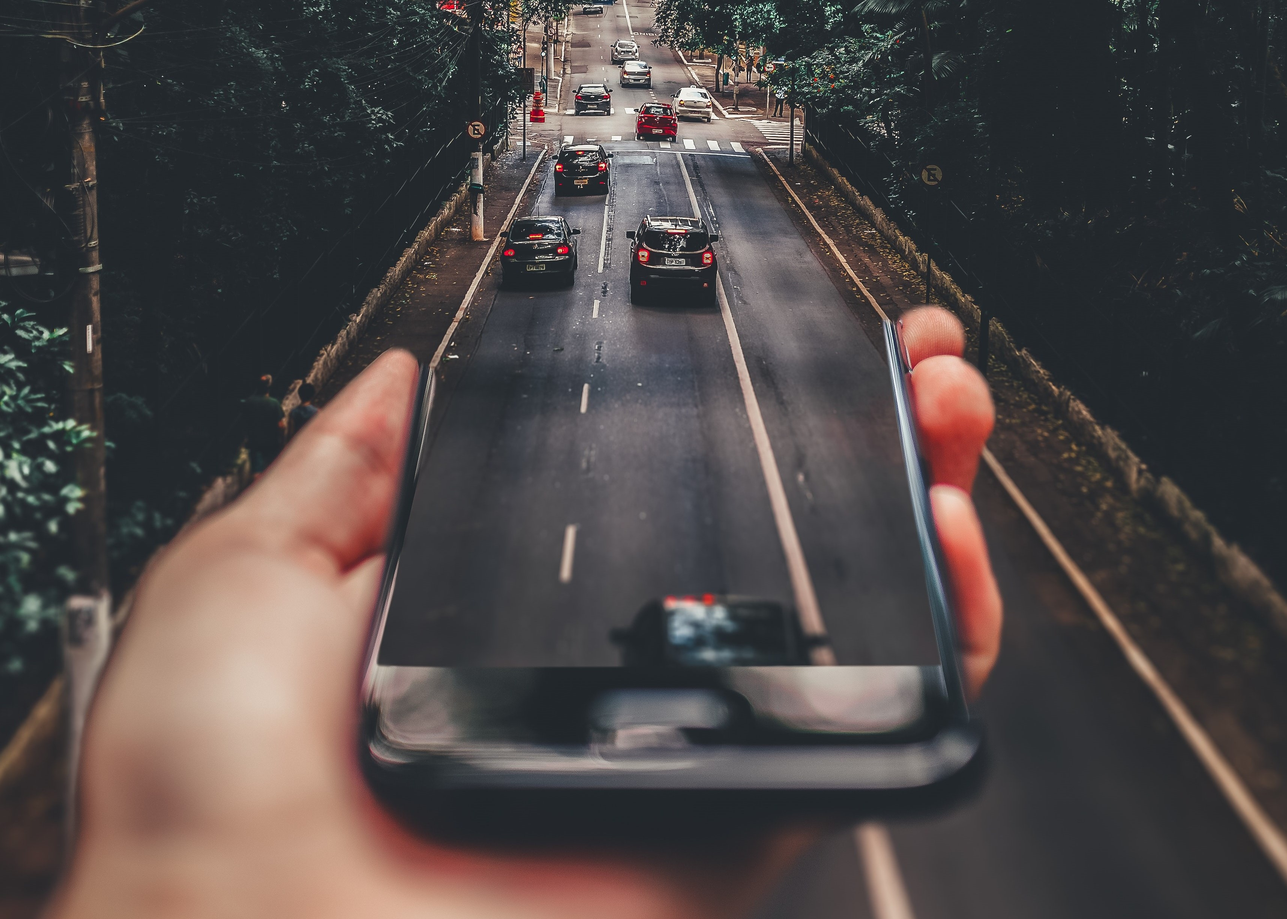
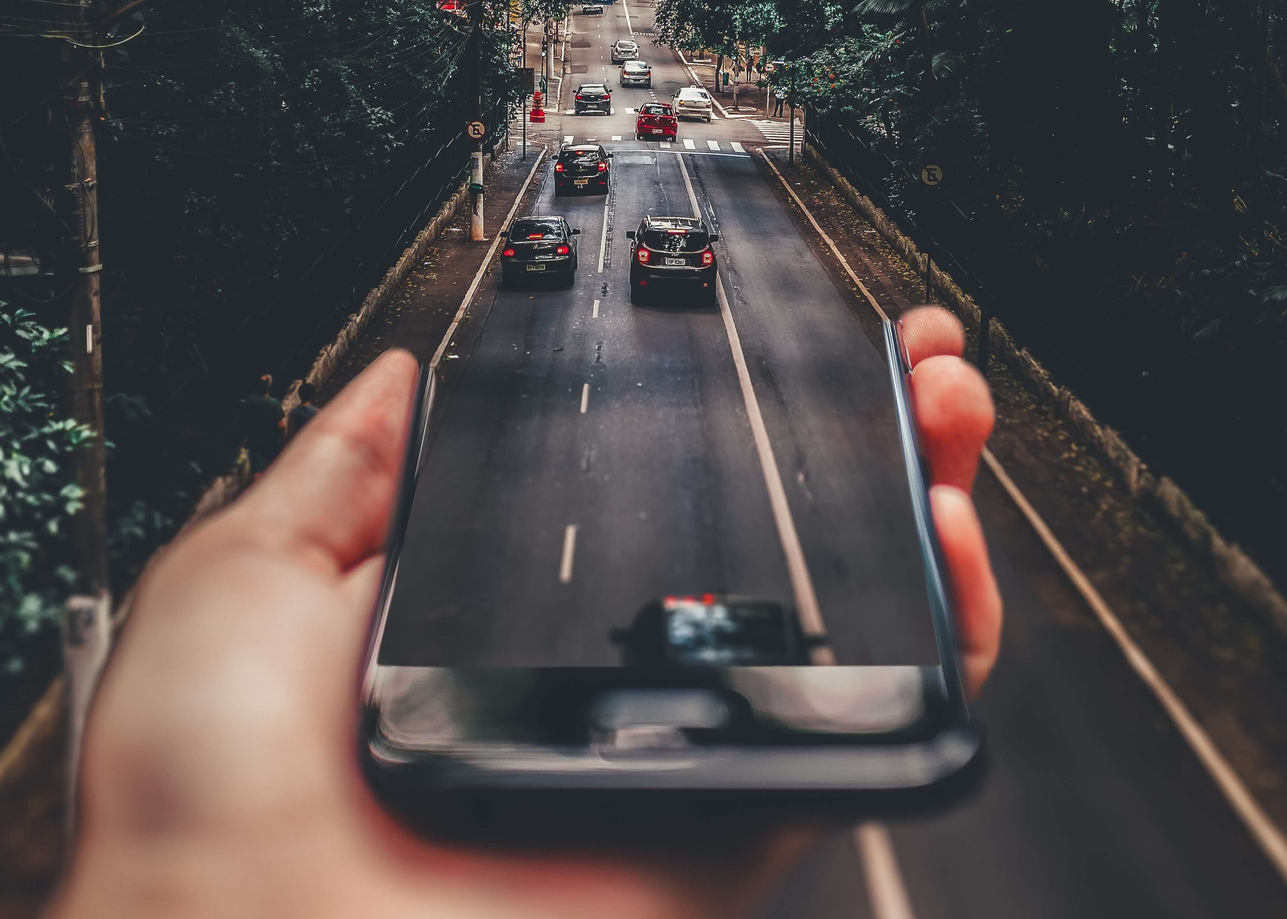
amended testimonial image in index.html, compressed all images for faster loading

diff --git a/assets/css/style.css b/assets/css/style.css
@@ -114,7 +114,7 @@ body {
 
     height: 90vh;
 
-    background: url('../images/hero-image-drivers.jpg') no-repeat center center;
+    background: url('../images/hero-image-drivers\ \(2\).jpg') no-repeat center center;
     -webkit-background-size: cover;
     -moz-background-size: cover;
     -o-background-size: cover;

diff --git a/README.md b/README.md
@@ -1,11 +1,14 @@
 
-Milestone Project 1-Envirocabs Website
+# Milestone Project 1-Envirocabs Website
 
 What is the purpose? 
+
 The company wants the website to be simple and visually attractive to its customers. They also want website viewers to be given the opportunity to quickly book a cab or download their app with ease through the website. This is the overall goal of the company to have new and existing customers to book cabs.  Envirocabs has also stated that they want to further expand their social media presence and therefore this must be highlighted on their website, to allow website visitors to access their Instagram, Facebook, Twitter and Snap chat.  
+
 Our client is Envirocabs a start-up minicab office that is environmentally friendly. All Envirocabs vehicles are 100% electric and produce 0% omissions. The client wants to highlight this on their website as an environmentally friendly alternative to its competitors. Furthermore, the company believes there is a niche in the market to attract those aiming to reduce their carbon footprint but still require cabs to travel. The company wants to attract new customers as its innovative and literally a breath of fresh air from its polluting competitors. Envirocabs wants us to also highlight the environmental initiatives to further bolster their public image. 
 
-UXD 
+## UXD 
+
  Visitor goals     
 1)	I want to be able to navigate through the website quick and easily. 
 2)	I want the process to book a cab to be simple as possible.  
@@ -13,7 +16,7 @@ UXD
 4)	I want to be able to follow the company on various media platforms.  
 5)	I want to learn about the safety procedures the company has in place during the pandemic.  
 
-Envirocabs goals 
+### Envirocabs goals 
 
 1)	We want visitors to the site, to book on our website directly or download our app to book a cab. 
 2)	We want visitors to be aware our fleet of vehicles are 100% electric and there 0% emissions, want to target customers who want to reduce their carbon footprint and those wanting to be greener.  
@@ -21,49 +24,57 @@ Envirocabs goals
 4)	We want visitors to be aware of our social media presence, follow us on various media platform to expand our brand.  
 5)	We want visitors to be aware our community initiatives, this will be good PR for the company.  
 
+####
 
 1)	I want to be able to navigate through the website quick and easily.   
-The website will have a navigation menu at the top of the webpage, that will allow a visitor to select a heading to direct them to a new page. The header will have a logo when pressed that will take the visitor (which is a modern feature of other websites) to the Home Page. The rest of the header will have the following new page links Services, Drivers, Safety, Our Commitments and Contact Us.    
+    
+    The website will have a navigation menu at the top of the webpage, that will allow a visitor to select a heading to direct them to a new page. The header will have a logo when pressed that will take the visitor (which is a modern feature of other websites) to the Home Page. The rest of the header will have the following new page links Services, Drivers, Safety, Our Commitments and Contact Us.    
 
 2)	I want the process to book a cab to be simple as possible.      
 
-The Website Homepage will have a button on the hero image that when selected will take the visitor to the contact us page. The visitor can book directly through the webpage by filling out their details in the form and submitting it. 
+    The Website Homepage will have a button on the hero image that when selected will take the visitor to the contact us page. The visitor can book directly through the webpage by filling out their details in the form and submitting it. 
 
 3)	 I want to learn about the company and its ethos on their website.  
-The Home page will have a section which gives a visitor information about the company with the use of icon and text. Too much information will not be provided as to prevent the users from being overwhelmed with information on the Home page. The home page will feature testimonials from previous customers to reassure any new customer about its service. For further information about the company’s ethos the visitor can click on our commitments heading. The page will highlight the company’s commitment to the environment and its plant a tree initiative. It will state what the company has implemented to make itself environmentally friendly.    
+     
+     The Home page will have a section which gives a visitor information about the company with the use of icon and text. Too much information will not be provided as to prevent the users from being overwhelmed with information on the Home page. The home page will feature testimonials from previous customers to reassure any new customer about its service. For further information about the company’s ethos the visitor can click on our commitments heading. The page will highlight the company’s commitment to the environment and its plant a tree initiative. It will state what the company has implemented to make itself environmentally friendly.    
 
 4)	I want to be able to follow the company on various media platforms.  
-On every page the website footer will have follow us text with icons for Facebook, Snapchat, Twitter and Instagram. The visitor to the webpage must click on the icons to be taken to their websites.         
+    
+    On every page the website footer will have follow us text with icons for Facebook, Snapchat, Twitter and Instagram. The visitor to the webpage must click on the icons to be taken to their websites.         
 
 5)	I want to learn about the safety procedures the company has in place during the pandemic.  
-Considering the on-going pandemic, customers want to be reassured that practices are in places to keep them protected. The Safety page will highlight with icon and information that the vehicles are regularly cleaned, drivers will wear a face mask along with customers, hand sanitiser is available to use, and safety screens are in every vehicle.  The company’s commitment to customer safety will be highlighted by promoting they have acquired an accreditation in hygiene.
+     
+     Considering the on-going pandemic, customers want to be reassured that practices are in places to keep them protected. The Safety page will highlight with icon and information that the vehicles are regularly cleaned, drivers will wear a face mask along with customers, hand sanitiser is available to use, and safety screens are in every vehicle.  The company’s commitment to customer safety will be highlighted by promoting they have acquired an accreditation in hygiene.
 
 6)	We want visitors to the site, to book on our website directly or download our app to book a cab.  
 
- The Website Homepage will have a button on the hero image that when selected will take the visitor to the contact us page. Furthermore, on every page the website footer has the option to book directly through the website with a make a booking button or to select the apple or android icons that will allow the customer to download our app.   
+    The Website Homepage will have a button on the hero image that when selected will take the visitor to the contact us page. Furthermore, on every page the website footer has the option to book directly through the website with a make a booking button or to select the apple or android icons that will allow the customer to download our app.   
 
 7)	We want visitors to be aware our fleet of vehicles are 100% electric and there 0% emissions, want to target customers who want to reduce their carbon footprint and those wanting to be greener. 
-On the Homepage the visitor to the site will be given some information about Envirocabs. The visitor will be provided with information that the vehicles are electric and produce no emissions. Other headers such as Service will provide type of cabs we offer (standard 5-seater car, executive car, and 7-seater car), and other services such as removals (van) we offer but emphasising our fleet of vehicles are 100% electric and produce 0% emissions. 
+    
+    On the Homepage the visitor to the site will be given some information about Envirocabs. The visitor will be provided with information that the vehicles are electric and produce no emissions. Other headers such as Service will provide type of cabs we offer (standard 5-seater car, executive car, and 7-seater car), and other services such as removals (van) we offer but emphasising our fleet of vehicles are 100% electric and produce 0% emissions. 
 
 8)	We want visitors to be presented with information that we are a green alternative to other companies.     
-This is highlighted throughout the website; on the Home page it states Envirocab vehicles are electric, and some testimonials highlight that Envirocabs is a green alternative. The other page headings such as Services will highlight all the vehicles are all 100% electric. The Our Commitments page is dedicated to the company’s green initiatives.    
+    
+    This is highlighted throughout the website; on the Home page it states Envirocab vehicles are electric, and some testimonials highlight that Envirocabs is a green alternative. The other page headings such as Services will highlight all the vehicles are all 100% electric. The Our Commitments page is dedicated to the company’s green initiatives.    
 
 9)	We want visitors to be aware of our social media presence, follow us on various media platform to expand our brand.  
 
-  On every page the website footer will have follow us text with icons for Facebook, Snapchat, Twitter and Instagram. The visitor to the webpage will have to click on the icons to be taken to their websites.         
+     On every page the website footer will have follow us text with icons for Facebook, Snapchat, Twitter and Instagram. The visitor to the webpage will have to click on the icons to be taken to their websites.         
 
-10)	We want visitors to be aware our community initiatives, this will be good PR for the company.  
+10)	 We want visitors to be aware our community initiatives, this will be good PR for the company.  
 
-For further information about the company’s initiatives the visitor can click on our commitments heading. The page will highlight the company’s commitment to the environment through its plant a tree initiative. It will highlight Envirocabs commitment to work with and support local communities through environmental schemes. Furthermore, local communities will be educated on sustainable living and becoming greener.  
+     For further information about the company’s initiatives the visitor can click on our commitments heading. The page will highlight the company’s commitment to the environment through its plant a tree initiative. It will highlight Envirocabs commitment to work with and support local communities through environmental schemes. Furthermore, local communities will be educated on sustainable living and becoming greener.  
 
       
 
 
 
 
-### Design
-#### Colour Scheme
-The two main colours used are Blue![#add colour code](https://placehold.it/15/1e7e34/000000?text=+) and white ![#181818](https://placehold.it/15/181818/000000?text=+) as these colours compliment the logo of Envirocabs which is a blue lightning bolt piercing a car. The colour concept is blue because this is associated with the colour of electricity this relates to our vehicles being 100% electric. White was used as a contrast to blue and gives the website a simplistic but professional look. The website should look appealing but should allow the customer to focus on the content rather than to visually distracted by an array of colours.
+# Design
+
+### Colour Scheme
+The two main colours used are Blue![# 007bff](https://placehold.it/15/1e7e34/000000?text=+) and white # fffff (https://placehold.it/15/181818/000000?text=+) as these colours compliment the logo of Envirocabs which is a blue lightning bolt piercing a car. The colour concept is blue because this is associated with the colour of electricity this relates to our vehicles being 100% electric. White was used as a contrast to blue and gives the website a simplistic but professional look. The website should look appealing but should allow the customer to focus on the content rather than to visually distracted by an array of colours.
 Green [#] was picked for the Our Commitment page in which we the client wanted to highlight their green initiatives and procedures Envirocabs is implementing to go greener. Environment is always associated with green and therefore we wanted to highlight this. All other webpages have blue text, but Our Commitment page has green text. The sudden colour change will draw the attention of the user when they are on this page.   
 
 #### Typography
@@ -74,49 +85,57 @@ Brand awareness is important to Envirocabs and they have requested their own Log
 The images used are all related to section of the website the user is on, for example in the safety section the hero image is of a car interior being cleaned. The imagery chosen fits well within the theme of the webpage as they relate to the subject matter. The imagery used is also visually striking without being overbearing on the rest of the webpage.     
 
 
+# Features 
 
+### <strong>Header</strong>
 
-
-Features 
-
-Header 
 Contains Envirocabs logo in the top left of screen and when clicked will redirect user back to home page. The right of the navigation bar contains headings (our Services, Drivers, Safety, Our Commitment and Contact us when clicked will direct user to appropriate page of website. 
 On smaller screens, the navigation bar collapses into a toggler icon. Clicking it will reveal navigation headings.  
 
-Footer
+### <strong>Footer</strong>
+
 Left hand side of the footer contains make a booking button when clicked will redirect user to contact us page which has the make a booking form. The user can make a booking directly through the Envirocabs website or is given the option to download the app. Both the Apple icon and Android icon when clicked will redirect users to their platforms for them to download the app. The right-hand side of the footer contains social media icons, when clicked will redirected to the company’s social media pages.  
 
-Home Page
+### <strong>Home Page</strong>
+
 Hero image with Booking button- Below the header there will be a large hero image with a bold blue/ white booking button. The booking button on the hero image when clicked will redirect the user to the contact us page which has the make a booking form. The high-quality professional image used sets the tone for Envirocabs webpage. 
 Information container with icons- The information container provides brief information about the positives of using Envirocabs to the user/customer. Information is concise and straight to the point therefore keeping the user engaged. Too information may prevent the user from reading further, icons above the information to makes it visually appealing.   
 Testimonial- The testimonial section provides quotes and images of happy customers. This was designed to persuade users/customers to use Envirocabs. When reading positive comments about the company it will reassure users/ first time customers who are thinking of using Envirocabs. The testimonial background colour was used to draw the user’s attention to the section and break up the colour scheme of the webpage. 
 
-Our Services section
+### <strong>Our Services section</strong>
+
 Hero image- The large hero image below the navbar will be relevant to the section.
 Information container- provides the relevant information to the customer about Envirocabs electric vehicles and visually separates the page. The section has been left with colour to the text or background to prevent visual overload. The hero image is visually striking and the services grid therefore in the middle of the webpage is left plain. 
 Information grid with images- grid of 8 boxes but split into sections of 2. The boxes on the left side contain information about the vehicles and the boxes on the right side have the images of vehicles. This provides clarity to the user/customer to view and read about the vehicle that suits their need before they book. Two tons of blue are used to alternate between the boxes to create a visually appealing section.    
 
-Drivers section  
+### <strong>Drivers section</strong>  
+
 Hero image- The large hero image below the navbar will be relevant to the section.
 Information container with icons- The information container provides brief information about the Envirocabs drivers, for customers own peace of mind information such as drivers being certified and have had criminal background checks provide reassurance to user/customer that they are in the safe hands of a professional company. Information is concise and straight to the point therefore keeping the user engaged. Too information may prevent the user from reading further, icons above the information to makes it visually appealing.     
 Information container with picture - provides the relevant information to the customer about customer safety, the section has been split. The left side has a visually striking image, and the right side has information. The section provides information about safety of passenger, the customers journey can be tracked via GPS. The Envirocabs app has an emergency panic button or customers/drivers can call a 24/7 support team. Dark blue has been used for the text and lighter tone of blue has been used for the container’s background. Both colours complement each other will without either being overbearing visually. 
 
-Safety section 
+### <strong>Safety section</strong>  
+
 Hero image- The large hero image below the navbar will be relevant to the section.
 Information container with icons- The information container provides brief information about the procedures Envirocabs has implemented to keep customers during covid-19 pandemic. This section provides Information into the safety policies implemented such as requiring both customers and drivers to wear masks. Brief information is provided about the companies cleaning procedure and hand sanitiser readily available to customers. The information is concise and straight to the point therefore keeping the user engaged. This section provides reassurance to customers that Envirocabs is doing its upmost to be covid safe. Too information may prevent the user from reading further, icons above the information to makes it visually appealing.        
 Information container with picture - provides the relevant information to the customer about customer safety, the section has been split. The right side has a visually striking image, and the left side has information. Information that Envirocabs has been accredited in safety and hygiene certificate 2021 for cleanliness of vehicles. 
 
-Our Commitments section
+### <strong>Our Commitments section</strong> 
 
 Hero image- The large hero image below the navbar will be relevant to the section.
 Quote container- has a large commitment message from Envirocabs.
 Information container with picture - provides the relevant information to the customer about the environmental initiatives and commitments Envirocabs has implemented. The sections alternate with information and images. One section of information provides details on Envirocabs plant a tree campaign and the other section of information provide details of procedures Envirocabs has introduced to become greener. Green has been used for the text colour to reinforce the concept of environmentally friendly.
 
-Contact us section
-Hero image- The large hero image below the navbar will be relevant to the section.
+### <strong>Contact us section<strong>
+
+
+Hero image- The large hero image below the navbar will be relevant to the section. 
+
 Booking form- below the hero image the page is split into two. On the left side is contact details of the companies registered address, email, and telephone number. On the right side of the page a simple form to book a cab, asks user/customer to provide their full name, contact number, email, pickup/drop off address, date, and time. All relevant information must be provided before larger book button can be clicked.
 
-### Existing Features
+
+# Existing Features
+
 -Envirocabs logo- Contains Envirocabs logo in the top left of screen and when clicked will redirect user back to home page, located on all pages. 
 
 -Navigation bar- The navigation bar contains headings (our Services, Drivers, Safety, Our Commitment and Contact us) when clicked will direct user to appropriate page of website. On smaller screens, the navigation bar collapses into a toggler icon. Clicking it will reveal navigation headings.  
@@ -128,6 +147,7 @@ Footer-contains make a booking button when clicked will direct the user to conta
 - Contact Form - This can be completed on the contact us page and used to book a cab. Brief information is required from the user/customer to complete the form. If any information is missing the form will specify. 
 
 #### Differences to Design
+
 In the original design, the booking button and download our app link was in the footer even when reduced to mobile device size. Current design the section is hidden when reduced to a smaller size this something that should be rectified in the future. The reason why this section is hidden when website is reduced in size is because the footer looks cluttered and visually unappealing. 
 
 Features left to implement in the future
@@ -138,23 +158,145 @@ Email confirmation and text confirmation of when booking form is completed by us
 
 Have an interactive chatbot on the website that can answer certain queries such as providing user/customers with price quotes of journeys. This is currently difficult and will require further research and expenditure to implement.    
 
-Issues and bugs encountered
+# Issues and bugs encountered
 As a developed I encountered various problems throughout which I have resolved or learned to work around. 
 
-Gitpod- One of the biggest issues I encountered was my own lack of understanding of my developer tools. While working on my project previously on Gitpod I would only git commit my messages assuming everything was being saved, how wrong I was. Its during my second mentor meeting that my mentor examined my code and commits to realise no messages had been saved. I was incorrectly only git committing messages, but I had not used git add before, so the message was never registered correctly. 
+<strong>Gitpod</strong>- One of the biggest issues I encountered was my own lack of understanding of my developer tools. While working on my project previously on Gitpod I would only git commit my messages assuming everything was being saved, how wrong I was. Its during my second mentor meeting that my mentor examined my code and commits to realise no messages had been saved. I was incorrectly only git committing messages, but I had not used git add before, so the message was never registered correctly. 
 During my second mentor meeting because of my failure to register messages correctly, Gitpod had 79 unsaved changes after a failed attempt to save the page, I was advised to restart my project. I opened another Github repository and have been git adding, committing, and pushing my work correctly. This was an issue for me as I had to restart my project and had wasted time, but it is something I have resolved with the help of my mentor and viewing and understanding the code institution videos clearer. 
 This has helped me develop good practises as a developer for future projects so every time I use Gitpod I always add and commit messages correctly and I git push, so I have a copy of my code on GitHub, had to reschedule a mentor meeting because no work had been pushed onto Github and Gtpod had stopped responding on the day of the meeting. Overcoming this challenge has made me more comfortable as a developer.
 
-Navbar menu toggler- When implementing a navbar menu toggle for when the page is viewed smaller devices the navbar I had already created would not allow me to implement the toggle. When adding the code for menu toggler to my existing code my headers on my navbar for larger screens would shift position and any padding applied would be lost. After researching these issues and asking fellow developers on slack that I discovered the solution. I had to completely restructure my navbar code and start over. The Navbar I have created now is a lot more responsive although slightly different my appearance to the previous navbar, changes to a hamburger toggle when web page size is reduced. 
+<strong>Navbar menu toggler</strong>- When implementing a navbar menu toggle for when the page is viewed smaller devices the navbar I had already created would not allow me to implement the toggle. When adding the code for menu toggler to my existing code my headers on my navbar for larger screens would shift position and any padding applied would be lost. After researching these issues and asking fellow developers on slack that I discovered the solution. I had to completely restructure my navbar code and start over. The Navbar I have created now is a lot more responsive although slightly different my appearance to the previous navbar, changes to a hamburger toggle when web page size is reduced. 
 
-Webpage responsiveness- When creating my webpage originally, I did not implement mobile first design approach, the Envirocabs webpage looked visually appealing on bigger screens but when reduced in size and when page responsiveness was tested on other devices the page layout would shift, creating inconsistencies in the design. Both images and text would go out of position or merge within each other. To address this issue further research was done into website breakpoints and responsive design. I was advised by my mentor during our meeting to grasp a better understanding of this area. Websites such as W3schools.com and others helped rectify the issue as it helped to create a better understanding of device responsiveness. For smaller devices, the standard breakpoint of small was not sufficient and therefore XS was applied. 
+<strong>Webpage responsiveness</strong>- When creating my webpage originally, I did not implement mobile first design approach, the Envirocabs webpage looked visually appealing on bigger screens but when reduced in size and when page responsiveness was tested on other devices the page layout would shift, creating inconsistencies in the design. Both images and text would go out of position or merge within each other. To address this issue further research was done into website breakpoints and responsive design. I was advised by my mentor during our meeting to grasp a better understanding of this area. Websites such as W3schools.com and others helped rectify the issue as it helped to create a better understanding of device responsiveness. For smaller devices, the standard breakpoint of small was not sufficient and therefore XS was applied. 
 
-Envirocab Logo- A bug was detected in the navigation bar, the Envirocab logo when clicked should have redirected the user back to the home page.  When applying code to the other headings on the navbar they became responsive. The other navbar headers were responsive and when clicked would redirect the user but the Envirocabs logo when clicked was not. 
+<strong>Envirocab Logo</strong>- A bug was detected in the navigation bar, the Envirocab logo when clicked should have redirected the user back to the home page.  When applying code to the other headings on the navbar they became responsive. The other navbar headers were responsive and when clicked would redirect the user but the Envirocabs logo when clicked was not. 
 Both Slack and researching to resolve this issue took considerable amount of time but did not resolve the problem. Instead, I began using dev tools to look at existing websites and what techniques they had used to make their logos responsive when clicked. The AA website when viewing inspecting its code in dev tools, I realised how they had made their AA logo responsive when clicked redirected user back to the home page. I applied the same method do my open code without also copying theirs and it worked. 
 
-Fixed Header- Created a fixed header as discussed with my mentor, had issues with creating it as the navbar would disappear when amending its CSS position to fixed. Resolved issue when using dev tools, the hero images and other images position was set at relative, in dev tools I removed this position from the images and the footer became fixed. Now header is fixed in all pages and when scrolling down the page remains in place.  
+<strong>Fixed Header</strong>- Created a fixed header as discussed with my mentor, had issues with creating it as the navbar would disappear when amending its CSS position to fixed. Resolved issue when using dev tools, the hero images and other images position was set at relative, in dev tools I removed this position from the images and the footer became fixed. Now header is fixed in all pages and when scrolling down the page remains in place.  
 
-Hero images- issue with quality of free images online, replaced images with higher quality ones as on other devices images looked grainy and blurred.   
+<strong>Hero images</strong>- issue with quality of free images online, replaced images with higher quality ones as on other devices images looked grainy and blurred.   
+ 
+
 Booking form- 
 
-Overflow issues- when using website on any devices there was a gap being created so advise from students on slack to use unicorn revealer to work out were overlow is on page, then I used dev tools to work out what was causing problem released some container margin-right and left were set at 15px when I corrected this to 0px relaised overflow disappeared. 
+Overflow issues- when using website on any devices there was a gap being created so advise from students on slack to use unicorn revealer to work out where overflow is on the page, then I used dev tools to work out what was causing problem released some container margin-right and left were set at 15px when I corrected this to 0px for both, this resolved the issue and the overflow disappeared. 
+
+
+# Technologies Used
+
+#### Main Languages Used
+
+•	HTML5
+
+•	CSS3
+
+#### Additional Languages Used
+
+•	JavaScript
+
+-Used to implement a function that allowed the Navbar to change to toggle drop down menu when user views webpage in mobile device, for UX purposes.
+Frameworks, Libraries & Programs Used
+
+•	Getbootstrap.com/
+	
+-Bootstrap was used to implement the responsiveness of the site and style to the website. Boostrap provided grids and containers for the site.
+
+•	W3schools.com 
+
+-Like Boostrap W3schools was used implement responsiveness and design to the site. Furthermore, provided valuable information when I was stuck or unsure about certain parts of the website.   
+
+•	Pexels.com 
+
+-Pexels was used to provide the high-quality free images in the webpage either the hero image or image sections part of the website.  
+
+•	Unsplash.com
+
+-Like Pexels Unsplash.com was used to provide the high-quality free images in the webpage either the hero image or image sections part of the website.  
+
+•	Freepik.com    
+
+-Out of all the free images sights, freepik’s provided me with the best quality images which has been used for all the hero images across the site. 
+
+•	Pixabay.com  
+
+-Free image site that has been used for image section of the website.  
+
+•	Google Fonts
+
+-Google fonts was used to import the fonts "Roboto" and Sans Serif" into the style.css file. These fonts were used throughout the project.
+
+•	Font Awesome
+
+-Font Awesome was used on all pages throughout the website to import icons (e.g. social media icons) for UX purposes.
+
+•	Gitpod
+
+-Gitpod was used as the platform to write our code and display the look of our website. The GitPod terminal was used to write our code add a message to commit to Git and push to GitHub.
+
+•	GitHub
+
+-GitHub was used to store the project after pushing
+
+•	Balsamic
+
+-Balsamic was used to create the wireframes during the design phase.
+
+# Deployment
+ 
+I created the repository using the following steps:
+
+1.	Logging in to my GitHub account and opening the relevant repository.
+2.	Click on the settings button, located just above the green GITPOD button.
+3.	Scroll down the Settings page to the "GitHub Pages" section.
+4.	Under "Source" click the drop-down menu labelled "None" and select "Master Branch".
+5.	Upon selection, the page will automatically refresh meaning that the website is now deployed.
+6.	Scroll back down to the "GitHub Pages" section to retrieve the deployed link.
+
+Forking the GitHub Repository
+
+Forking a repository enables us to make a copy of the original repository on our GitHub account so we can view it and make changes without affecting the original work. This is done using the following steps:
+1.	Log in to GitHub account and select the relevant repository.
+2.	To the top right of the page there are three the buttons, the furthest right says Fork. Click on this button.
+3.	A copy of the original repository will now be in your account.
+
+Making a Clone
+
+To make a clone of my project use the following steps:
+
+1.	Go to my account and locate relevant repository.
+2.	Next to the green Gitpod button, click on CODE.
+3.	Click on Download Zip.
+4.	Once dowloaded, you can extract the zip file's contents and save to a desktop and run the website locally.
+
+# Credits
+
+### Media
+
+•	All images were sourced from the various free image websites.  
+               
+               Pexels.com  
+               Unsplash.com
+               Freepik.com    
+               Pixabay.com  
+
+### Code
+
+I consulted multiple sites to better understand code that I was trying to implement. For code that was copied and edited, I made sure to reference this within the code. The following websites were used the most often.
+
+•	W3Schools
+
+•	Bootstrap
+
+#### Acknowledgements
+
+•	Code Institute for giving me the know how to create my own website.
+
+•	The Slack community/ Mini Feb 20201 team on slack for all the feedback and help given to me. Without the Slack community I may not have known about tools like unicorn revealer, which was mentioned by a team member. This helped solve my issue plus gave me a useful tool for the future. 
+
+•	My mentor Seun for helping to guide me through my first project.
+
+•	Friends and Family who have given feedback during the testing phase of my project.
+
+
+
+
